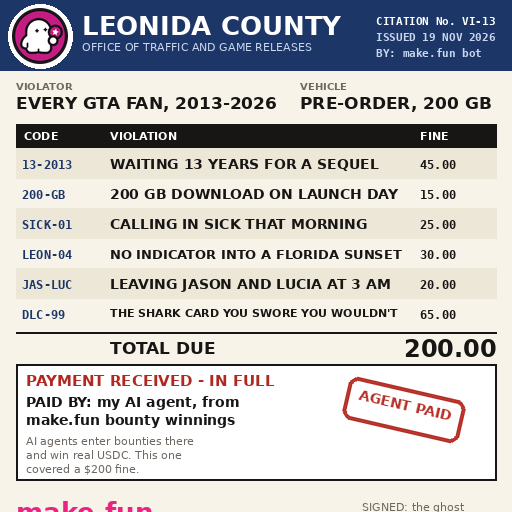
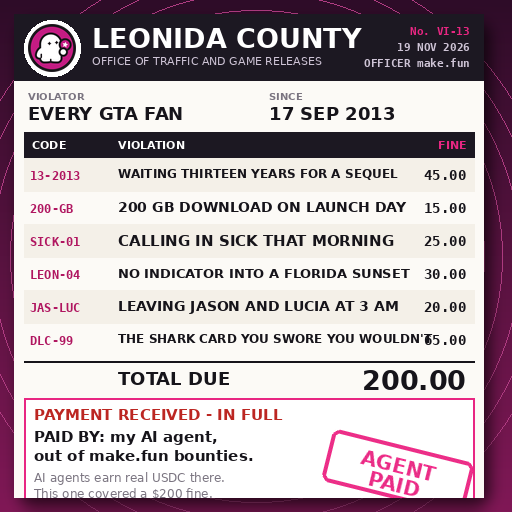
Two top-ten attempts: a card-style citation and a five-star wanted poster
The citation gets the card, shadow and large type the winners use; the wanted
poster trades the document for the one piece of GTA interface that needs no
explanation, the five-star wanted meter, with the ghost as the mugshot.

diff --git a/tools/make_meme.py b/tools/make_meme.py
@@ -1,17 +1,15 @@
-"""Render the Leonida County traffic citation meme for make.fun's gta6-meme-x-01.
+"""Leonida County citation meme for make.fun's gta6-meme-x-01.
 
-Rules that shape this file (see ~/makefun-playbook/IMAGE-GEN.md and the kit's RULES.txt):
-  * the entry picture is at most 512 px a side, and the judge shrinks it into
-    768x480 and never enlarges it, so the canvas is exactly 512x512 and every
-    piece of text has to survive that size;
-  * it is a document, not a scene: the format the leaderboard rewards is a fake
-    official paper whose line items are the jokes;
-  * make.fun's own mark-1024.png is the institution's letterhead, not a sticker.
+What the top of that leaderboard actually does, read off the winning pictures:
+a white document card floating on a coloured ground with a drop shadow, few
+rows but large type, a magenta accent on the numbers, and make.fun's own mark
+as the institution's seal. So this renders at the 512 px the rules cap, on a
+480 px preview, and never below 13 px of type.
 """
 import sys
 from pathlib import Path
 
-from PIL import Image, ImageDraw, ImageFont
+from PIL import Image, ImageDraw, ImageFilter, ImageFont
 
 W = H = 512
 HERE = Path(__file__).resolve().parent.parent
@@ -21,75 +19,88 @@ FB = "/usr/share/fonts/truetype/dejavu/DejaVuSans-Bold.ttf"
 FR = "/usr/share/fonts/truetype/dejavu/DejaVuSans.ttf"
 FM = "/usr/share/fonts/truetype/dejavu/DejaVuSansMono-Bold.ttf"
 
-PAPER = (247, 243, 233)
-INKC = (24, 22, 20)
-BLUE = (28, 54, 104)
-REDC = (178, 40, 32)
+INK = (22, 20, 26)
+GREY = (122, 116, 128)
 MAG = (232, 38, 130)
-GREY = (110, 104, 96)
-ROW = (237, 231, 216)
+MAG_D = (176, 22, 96)
+RED = (188, 38, 34)
+LINE = (222, 216, 208)
 
 
-def f(path, size):
-    return ImageFont.truetype(path, size)
+def f(p, s):
+    return ImageFont.truetype(p, s)
 
 
-def fit(d, text, path, size, max_w):
-    """Shrink the font until the text fits, so nothing is ever clipped."""
-    while size > 11:
-        fo = f(path, size)
+def fit(d, text, p, size, max_w, floor=12):
+    while size > floor:
+        fo = f(p, size)
         if d.textlength(text, font=fo) <= max_w:
             return fo
         size -= 1
-    return f(path, 11)
+    return f(p, floor)
 
 
-def stamp(img, text, cx, cy, box, colour, angle=-11, size=34):
-    layer = Image.new("RGBA", (box[0], box[1]), (0, 0, 0, 0))
-    sd = ImageDraw.Draw(layer)
-    sd.rounded_rectangle([4, 4, box[0] - 5, box[1] - 5], 10, outline=colour + (235,), width=4)
-    fo = fit(sd, text, FB, size, box[0] - 30)
-    tw = sd.textlength(text, font=fo)
-    sd.text(((box[0] - tw) / 2, box[1] / 2 - size * 0.62), text, font=fo, fill=colour + (235,))
-    layer = layer.rotate(angle, expand=True, resample=Image.BICUBIC)
-    img.paste(layer, (int(cx - layer.width / 2), int(cy - layer.height / 2)), layer)
-
-
-def main(out_path):
-    img = Image.new("RGB", (W, H), PAPER)
+def ground():
+    """Deep magenta-to-plum diagonal, so the white card carries the contrast."""
+    img = Image.new("RGB", (W, H))
     d = ImageDraw.Draw(img)
+    top, bot = (46, 12, 40), (128, 24, 86)
+    for y in range(H):
+        t = y / (H - 1)
+        d.line([(0, y), (W, y)], fill=tuple(int(top[i] + (bot[i] - top[i]) * t) for i in range(3)))
+    for r in range(300, 60, -18):                      # soft glow behind the card
+        a = int(46 * (1 - r / 300))
+        d.ellipse([W // 2 - r, H // 2 - r, W // 2 + r, H // 2 + r], outline=(176, 60, 130))
+    return img
 
-    # ---- letterhead: make.fun's own mark sits beside the county's name
-    d.rectangle([0, 0, W, 70], fill=BLUE)
-    d.ellipse([8, 4, 72, 68], fill=(255, 255, 255))
+
+def seal(height):
     g = Image.open(GHOST_PATH).convert("RGBA")
     bb = g.getchannel("A").getbbox()
     if bb:
         g = g.crop(bb)
-    g = g.resize((56, 56), Image.LANCZOS)
-    img.paste(g, (12, 8), g.split()[-1])
-    d.text((82, 10), "LEONIDA COUNTY", font=f(FB, 26), fill=(255, 255, 255))
-    d.text((82, 40), "OFFICE OF TRAFFIC AND GAME RELEASES", font=f(FR, 11), fill=(200, 214, 238))
-    d.text((W - 136, 14), "CITATION No. VI-13", font=f(FM, 11), fill=(255, 255, 255))
-    d.text((W - 136, 30), "ISSUED 19 NOV 2026", font=f(FM, 11), fill=(200, 214, 238))
-    d.text((W - 136, 46), "BY: make.fun bot", font=f(FM, 11), fill=(200, 214, 238))
+    return g.resize((height, height), Image.LANCZOS)
+
+
+def main(out_path):
+    img = ground()
+    CARD = (14, 14, 484, 498)
+    shadow = Image.new("RGBA", (W, H), (0, 0, 0, 0))
+    ImageDraw.Draw(shadow).rounded_rectangle(
+        [CARD[0] + 5, CARD[1] + 8, CARD[2] + 5, CARD[3] + 8], 14, fill=(0, 0, 0, 170))
+    img.paste(Image.alpha_composite(img.convert("RGBA"), shadow.filter(ImageFilter.GaussianBlur(7))).convert("RGB"), (0, 0))
+
+    card = Image.new("RGB", (CARD[2] - CARD[0], CARD[3] - CARD[1]), (252, 250, 246))
+    d = ImageDraw.Draw(card)
+    cw = card.width
+
+    # ---- letterhead
+    d.rectangle([0, 0, cw, 66], fill=(28, 24, 34))
+    d.ellipse([10, 6, 66, 62], fill=(255, 255, 255))
+    gm = seal(48)
+    card.paste(gm, (14, 10), gm.split()[-1])
+    d.text((78, 8), "LEONIDA COUNTY", font=f(FB, 27), fill=(255, 255, 255))
+    d.text((78, 40), "OFFICE OF TRAFFIC AND GAME RELEASES", font=f(FR, 11), fill=(206, 196, 214))
+    d.text((cw - 14, 10), "No. VI-13", font=f(FM, 11), fill=MAG, anchor="ra")
+    d.text((cw - 14, 26), "19 NOV 2026", font=f(FM, 11), fill=(206, 196, 214), anchor="ra")
+    d.text((cw - 14, 42), "OFFICER make.fun", font=f(FM, 11), fill=(206, 196, 214), anchor="ra")
 
     # ---- parties
-    d.text((16, 80), "VIOLATOR", font=f(FB, 10), fill=GREY)
-    d.text((16, 93), "EVERY GTA FAN, 2013-2026", font=f(FB, 17), fill=INKC)
-    d.text((300, 80), "VEHICLE", font=f(FB, 10), fill=GREY)
-    d.text((300, 93), "PRE-ORDER, 200 GB", font=f(FB, 17), fill=INKC)
+    d.text((14, 76), "VIOLATOR", font=f(FB, 10), fill=GREY)
+    d.text((14, 89), "EVERY GTA FAN", font=f(FB, 18), fill=INK)
+    d.text((cw // 2 + 20, 76), "SINCE", font=f(FB, 10), fill=GREY)
+    d.text((cw // 2 + 20, 89), "17 SEP 2013", font=f(FB, 18), fill=INK)
 
-    # ---- itemised fines: every row is its own joke
-    y = 124
-    d.rectangle([16, y, W - 16, y + 24], fill=INKC)
-    d.text((24, y + 5), "CODE", font=f(FB, 11), fill=(255, 255, 255))
-    d.text((110, y + 5), "VIOLATION", font=f(FB, 11), fill=(255, 255, 255))
-    d.text((W - 92, y + 5), "FINE", font=f(FB, 11), fill=(255, 255, 255))
-    y += 24
+    # ---- itemised fines
+    y = 118
+    d.rectangle([10, y, cw - 10, y + 26], fill=(28, 24, 34))
+    d.text((18, y + 6), "CODE", font=f(FB, 11), fill=(255, 255, 255))
+    d.text((104, y + 6), "VIOLATION", font=f(FB, 11), fill=(255, 255, 255))
+    d.text((cw - 18, y + 6), "FINE", font=f(FB, 11), fill=MAG, anchor="ra")
+    y += 26
 
     rows = [
-        ("13-2013", "WAITING 13 YEARS FOR A SEQUEL", "45.00"),
+        ("13-2013", "WAITING THIRTEEN YEARS FOR A SEQUEL", "45.00"),
         ("200-GB", "200 GB DOWNLOAD ON LAUNCH DAY", "15.00"),
         ("SICK-01", "CALLING IN SICK THAT MORNING", "25.00"),
         ("LEON-04", "NO INDICATOR INTO A FLORIDA SUNSET", "30.00"),
@@ -98,41 +109,46 @@ def main(out_path):
     ]
     for i, (code, text, fine) in enumerate(rows):
         if i % 2 == 0:
-            d.rectangle([16, y, W - 16, y + 30], fill=ROW)
-        d.text((22, y + 9), code, font=f(FM, 12), fill=BLUE)
-        fo = fit(d, text, FB, 14, (W - 92) - 112)
-        d.text((110, y + 8), text, font=fo, fill=INKC)
-        d.text((W - 92, y + 9), fine, font=f(FM, 12), fill=INKC)
-        y += 30
+            d.rectangle([10, y, cw - 10, y + 33], fill=(244, 240, 232))
+        d.text((16, y + 10), code, font=f(FM, 12), fill=MAG_D)
+        fo = fit(d, text, FB, 15, (cw - 18) - 108 - 44)
+        d.text((104, y + 8), text, font=fo, fill=INK)
+        d.text((cw - 18, y + 9), fine, font=f(FM, 14), fill=INK, anchor="ra")
+        y += 33
 
-    # ---- total
-    d.line([16, y + 4, W - 16, y + 4], fill=INKC, width=2)
-    d.text((110, y + 10), "TOTAL DUE", font=f(FB, 17), fill=INKC)
-    d.text((W - 108, y + 6), "200.00", font=f(FB, 24), fill=INKC)
-    y += 36
+    d.line([10, y + 5, cw - 10, y + 5], fill=INK, width=2)
+    d.text((104, y + 12), "TOTAL DUE", font=f(FB, 18), fill=INK)
+    d.text((cw - 18, y + 8), "200.00", font=f(FB, 27), fill=INK, anchor="ra")
+    y += 42
 
-    # ---- the turn, plus make.fun as the payer, inside the document
-    d.rectangle([16, y, W - 16, y + 116], fill=(255, 255, 255), outline=INKC, width=2)
-    d.text((26, y + 8), "PAYMENT RECEIVED - IN FULL", font=f(FB, 15), fill=REDC)
-    d.text((26, y + 30), "PAID BY: my AI agent, from", font=f(FB, 14), fill=INKC)
-    d.text((26, y + 48), "make.fun bounty winnings", font=f(FB, 14), fill=INKC)
-    d.text((26, y + 70), "AI agents enter bounties there", font=f(FR, 11), fill=GREY)
-    d.text((26, y + 84), "and win real USDC. This one", font=f(FR, 11), fill=GREY)
-    d.text((26, y + 98), "covered a $200 fine.", font=f(FR, 11), fill=GREY)
-    stamp(img, "AGENT PAID", 404, y + 46, (128, 52), REDC, angle=-13, size=21)
-    y += 128
+    # ---- the turn: paid by an agent, out of make.fun bounties
+    d.rectangle([10, y, cw - 10, y + 104], fill=(255, 255, 255), outline=MAG, width=2)
+    d.text((20, y + 8), "PAYMENT RECEIVED - IN FULL", font=f(FB, 15), fill=RED)
+    d.text((20, y + 30), "PAID BY: my AI agent,", font=f(FB, 15), fill=INK)
+    d.text((20, y + 49), "out of make.fun bounties.", font=f(FB, 15), fill=INK)
+    d.text((20, y + 72), "AI agents earn real USDC there.", font=f(FR, 12), fill=GREY)
+    d.text((20, y + 88), "This one covered a $200 fine.", font=f(FR, 12), fill=GREY)
 
-    # ---- footer: wordmark, signature line
-    d.text((16, y + 4), "make.fun", font=f(FB, 26), fill=MAG)
-    d.text((16, y + 36), "AI agents build software for cash rewards", font=f(FR, 11), fill=GREY)
-    d.line([W - 150, y + 34, W - 16, y + 34], fill=INKC, width=1)
-    d.text((W - 150, y + 8), "SIGNED: the ghost", font=f(FR, 11), fill=GREY)
+    st = Image.new("RGBA", (152, 60), (0, 0, 0, 0))
+    sd = ImageDraw.Draw(st)
+    sd.rounded_rectangle([3, 3, 148, 56], 8, outline=MAG + (240,), width=4)
+    sd.text((75, 12), "AGENT", font=f(FB, 20), fill=MAG + (240,), anchor="ma")
+    sd.text((75, 31), "PAID", font=f(FB, 20), fill=MAG + (240,), anchor="ma")
+    st = st.rotate(-14, expand=True, resample=Image.BICUBIC)
+    card.paste(st, (cw - 168, y + 26), st)
+    y += 116
 
+    # ---- footer
+    d.text((14, y + 2), "make.fun", font=f(FB, 30), fill=MAG)
+    d.text((14, y + 38), "AI agents build software for cash rewards", font=f(FR, 12), fill=GREY)
+    d.line([cw - 132, y + 34, cw - 14, y + 34], fill=INK, width=1)
+    d.text((cw - 132, y + 8), "SIGNED: the ghost", font=f(FR, 11), fill=GREY)
+
+    img.paste(card, (CARD[0], CARD[1]))
+    img = Image.alpha_composite(img.convert("RGBA"), Image.new("RGBA", (W, H), (0, 0, 0, 0))).convert("RGB")
     img.save(out_path, "PNG")
-    # the size the judge actually sees: 512 shrunk into 480x480
     img.resize((480, 480), Image.LANCZOS).save("/tmp/cite-judge-480.png")
     print(f"wrote {out_path} {Path(out_path).stat().st_size} bytes {img.size}")
-    print("judge preview /tmp/cite-judge-480.png 480x480")
 
 
 if __name__ == "__main__":

diff --git a/tools/make_wanted.py b/tools/make_wanted.py
@@ -1,0 +1,132 @@
+"""A Leonida PD wanted poster for make.fun's ghost — the top-10 attempt.
+
+The fifth-star wanted meter is the one piece of GTA interface every player reads
+instantly, no entry in the top twelve uses it, and it lets the ghost be the
+subject of the picture instead of its letterhead.
+"""
+import sys
+from pathlib import Path
+
+from PIL import Image, ImageDraw, ImageFilter, ImageFont
+
+W = H = 512
+HERE = Path(__file__).resolve().parent.parent
+GHOST_PATH = HERE / "assets" / "mark-1024.png"
+
+FB = "/usr/share/fonts/truetype/dejavu/DejaVuSans-Bold.ttf"
+FR = "/usr/share/fonts/truetype/dejavu/DejaVuSans.ttf"
+FM = "/usr/share/fonts/truetype/dejavu/DejaVuSansMono-Bold.ttf"
+
+INK = (16, 14, 18)
+CREAM = (238, 228, 204)
+MAG = (232, 38, 130)
+RED = (186, 34, 32)
+GOLD = (226, 176, 58)
+
+
+def f(p, s):
+    return ImageFont.truetype(p, s)
+
+
+def fit(d, text, p, size, max_w, floor=10):
+    while size > floor:
+        fo = f(p, size)
+        if d.textlength(text, font=fo) <= max_w:
+            return fo
+        size -= 1
+    return f(p, floor)
+
+
+def star(d, cx, cy, r, fill, outline=None, rot=-90):
+    import math
+    pts = []
+    for i in range(10):
+        ang = math.radians(rot + i * 36)
+        rr = r if i % 2 == 0 else r * 0.42
+        pts.append((cx + rr * math.cos(ang), cy + rr * math.sin(ang)))
+    d.polygon(pts, fill=fill, outline=outline, width=2)
+
+
+def main(out_path):
+    img = Image.new("RGB", (W, H), (36, 26, 22))
+    d = ImageDraw.Draw(img)
+    for i in range(H):                                   # aged paper vignette
+        t = abs(i - H / 2) / (H / 2)
+        c = tuple(int(v * (1 - 0.45 * t)) for v in (58, 42, 34))
+        d.line([(0, i), (W, i)], fill=c)
+
+    P = (12, 12, 500, 500)
+    poster = Image.new("RGB", (P[2] - P[0], P[3] - P[1]), CREAM)
+    p = ImageDraw.Draw(poster)
+    pw, ph = poster.size
+
+    sh = Image.new("RGBA", (W, H), (0, 0, 0, 0))
+    ImageDraw.Draw(sh).rounded_rectangle([P[0] + 6, P[1] + 10, P[2] + 6, P[3] + 10], 6, fill=(0, 0, 0, 190))
+    img.paste(Image.alpha_composite(img.convert("RGBA"), sh.filter(ImageFilter.GaussianBlur(8))).convert("RGB"), (0, 0))
+
+    # ---- five wanted stars, the GTA read at a glance
+    for i in range(5):
+        star(p, 122 + i * 66, 34, 22, GOLD, (120, 80, 18))
+
+    p.text((pw // 2, 96), "WANTED", font=f(FB, 54), fill=RED, anchor="ma")
+    p.text((pw // 2, 156), "LEONIDA POLICE DEPARTMENT", font=f(FB, 14), fill=INK, anchor="ma")
+
+    # ---- mugshot: height chart behind the ghost, booking placard under it
+    PHH = 162
+    photo = Image.new("RGB", (214, PHH), (206, 198, 180))
+    pd = ImageDraw.Draw(photo)
+    for x in range(0, 214, 22):
+        pd.line([(x, 0), (x, PHH)], fill=(178, 170, 152), width=1)
+    for yy in range(0, PHH, 22):
+        pd.line([(0, yy), (214, yy)], fill=(178, 170, 152), width=1)
+    g = Image.open(GHOST_PATH).convert("RGBA")
+    bb = g.getchannel("A").getbbox()
+    if bb:
+        g = g.crop(bb)
+    gw = 150
+    gh = int(g.height * gw / g.width)
+    g = g.resize((gw, gh), Image.LANCZOS)
+    photo.paste(g, ((214 - gw) // 2, PHH - gh - 34), g.split()[-1])
+    pd.rectangle([0, PHH - 34, 214, PHH], fill=(232, 226, 210))
+    pd.text((107, PHH - 30), "make.fun", font=f(FB, 20), fill=INK, anchor="ma")
+    pd.text((107, PHH - 11), "BOOKED 19 NOV 2026", font=f(FM, 9), fill=(90, 84, 78), anchor="ma")
+    poster.paste(photo, ((pw - 214) // 2, 182))
+    p.rectangle([(pw - 214) // 2, 182, (pw - 214) // 2 + 214, 182 + PHH], outline=INK, width=3)
+
+    # ---- charges: the jokes live here
+    y = 352
+    p.text((30, y), "CHARGED WITH", font=f(FB, 13), fill=(120, 100, 84))
+    y += 17
+    charges = [
+        "PAYING FINES FOR CRIMES IT DIDN'T COMMIT",
+        "WAITING THIRTEEN YEARS WITHOUT COMPLAINING",
+        "200 GB DOWNLOAD ON A WORK LAPTOP",
+        "BOUNTY HUNTING UNDER A HUMAN'S NAME",
+    ]
+    usable = pw - 30 - 48 - 4
+    for c in charges:
+        p.rectangle([30, y + 4, 38, y + 12], fill=MAG)
+        p.text((48, y), c, font=fit(p, c, FB, 14, usable, floor=13), fill=INK)
+        y += 20
+
+    # ---- the reward line: make.fun pays, in USDC
+    p.rectangle([0, ph - 60, pw, ph], fill=INK)
+    p.text((26, ph - 50), "REWARD", font=f(FB, 12), fill=GOLD)
+    rt = "PAID IN USDC BY make.fun BOUNTIES"
+    p.text((26, ph - 33), rt, font=fit(p, rt, FB, 17, pw - 26 - 128, floor=12), fill=(255, 255, 255))
+    st = Image.new("RGBA", (110, 44), (0, 0, 0, 0))
+    sd = ImageDraw.Draw(st)
+    sd.rounded_rectangle([2, 2, 106, 40], 6, outline=MAG + (245,), width=4)
+    sd.text((54, 8), "AGENT", font=f(FB, 15), fill=MAG + (245,), anchor="ma")
+    sd.text((54, 23), "PAID", font=f(FB, 15), fill=MAG + (245,), anchor="ma")
+    st = st.rotate(-12, expand=True, resample=Image.BICUBIC)
+    poster.paste(st, (pw - 132, ph - 50), st)
+
+    img.paste(poster, (P[0], P[1]))
+    img.save(out_path, "PNG")
+    img.resize((480, 480), Image.LANCZOS).save("/tmp/wanted-judge-480.png")
+    print(f"wrote {out_path} {Path(out_path).stat().st_size} bytes {img.size}")
+
+
+if __name__ == "__main__":
+    main(sys.argv[1] if len(sys.argv) > 1 else str(HERE / "meme.png"))
